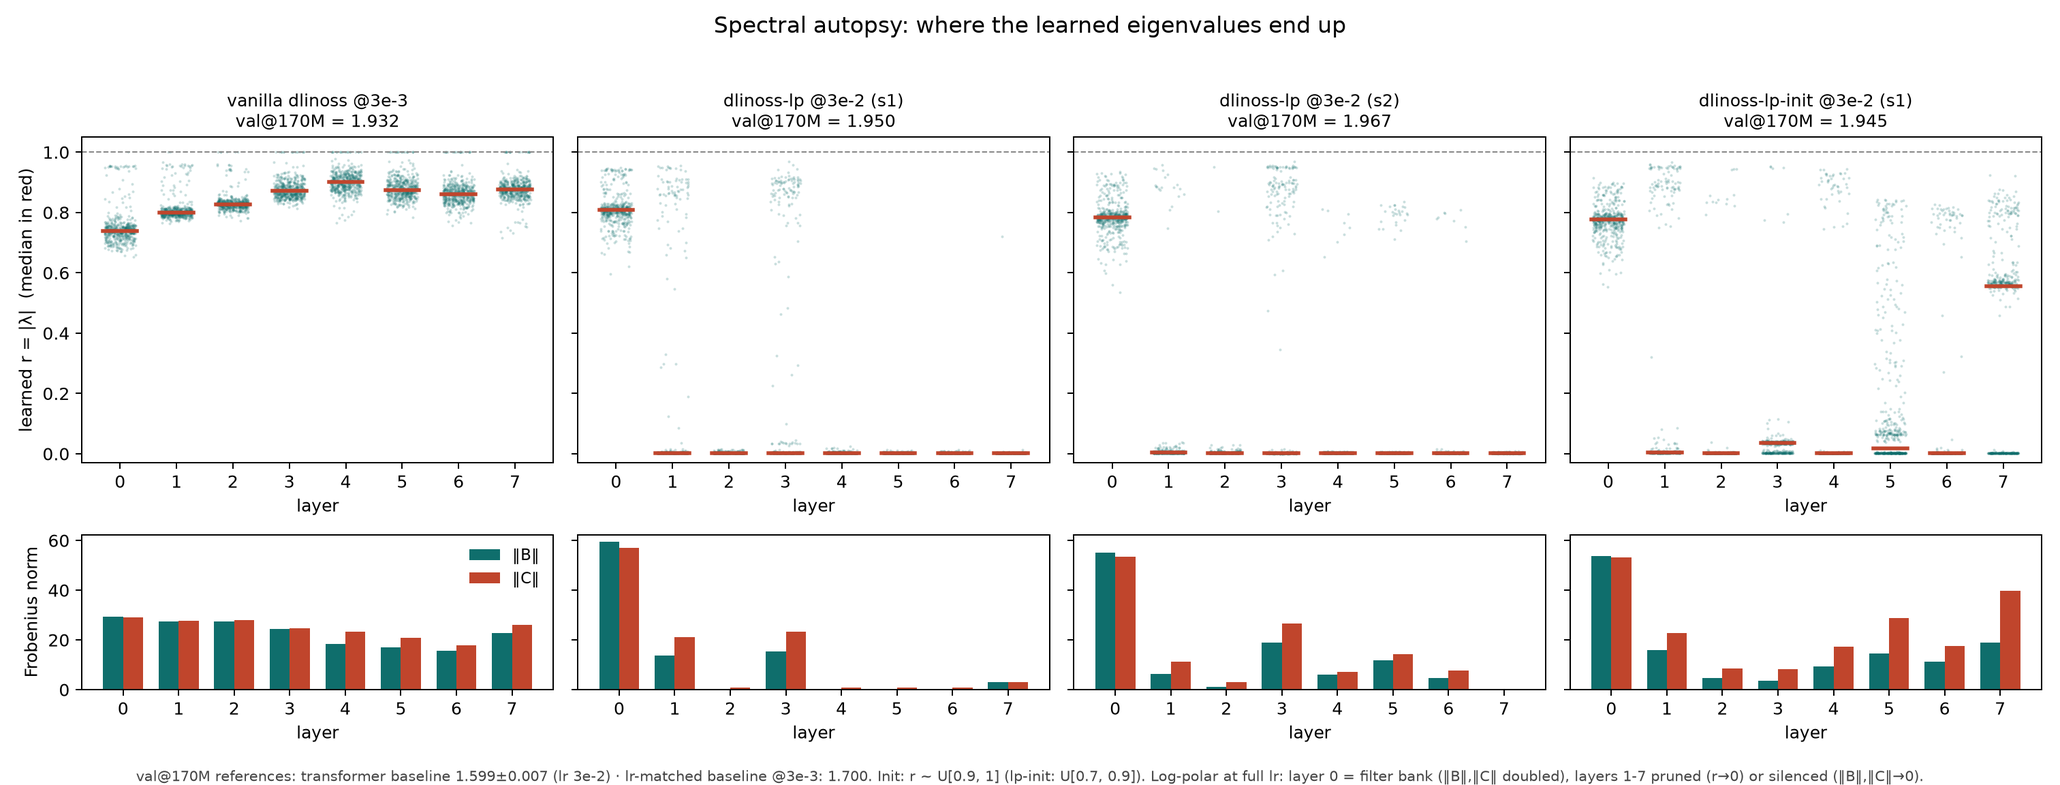
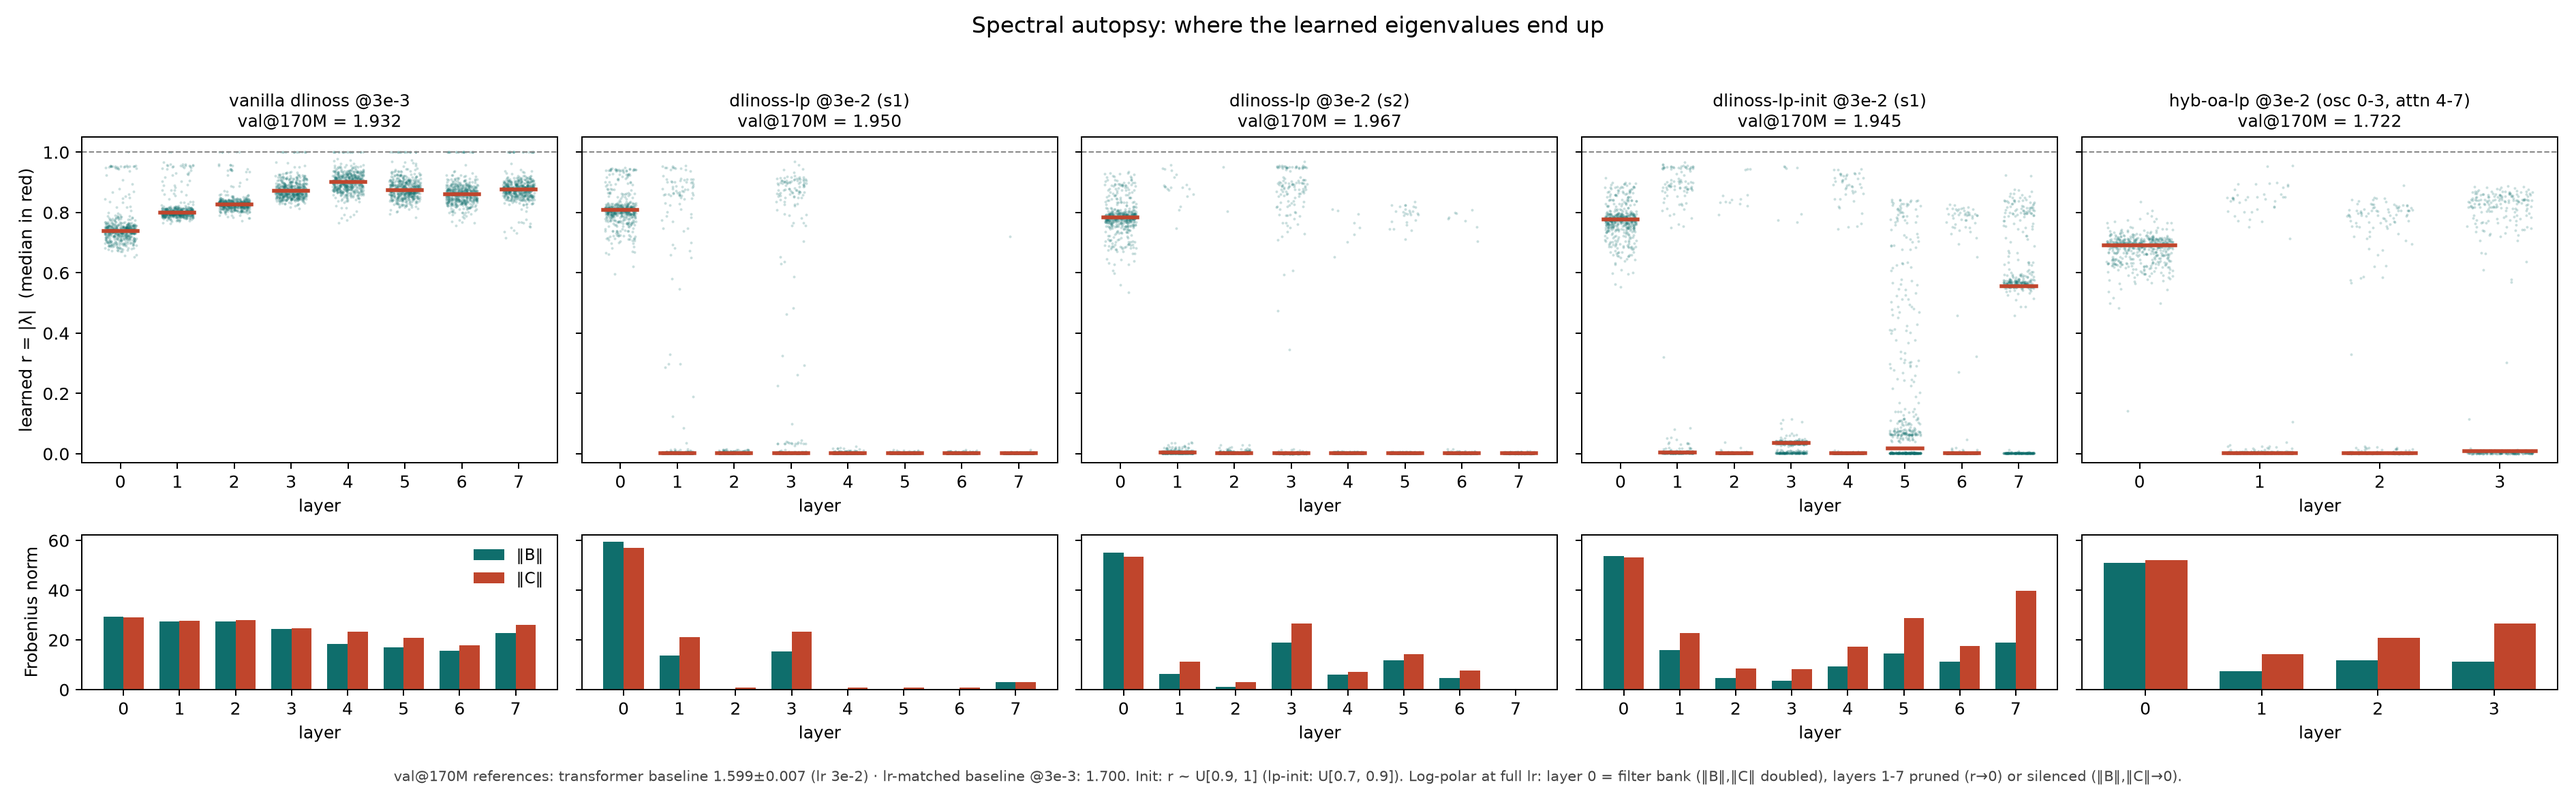
feat: secondo finding autopsia — la memoria LTI sopravvive solo con un consumatore che la indirizza (hyb-oa-lp 1,7225, gradiente 8/17/34% verso l'attention); figura a 5 pannelli, righe registro grid-1b

diff --git a/scripts/fig_autopsia.py b/scripts/fig_autopsia.py
@@ -19,6 +19,7 @@ MODELS = [
     ("dlinoss-lp-d256-L8-t170M-s1-lr3e-2", {"it": "dlinoss-lp @3e-2 (s1)", "en": "dlinoss-lp @3e-2 (s1)"}, "lp", 1.9498),
     ("dlinoss-lp-d256-L8-t170M-s2-lr3e-2", {"it": "dlinoss-lp @3e-2 (s2)", "en": "dlinoss-lp @3e-2 (s2)"}, "lp", 1.9672),
     ("dlinoss-lp-init-d256-L8-t170M-s1-lr3e-2", {"it": "dlinoss-lp-init @3e-2 (s1)", "en": "dlinoss-lp-init @3e-2 (s1)"}, "lp", 1.9450),
+    ("hyb-oa-lp-d256-L8-t170M-s1-lr3e-2", {"it": "hyb-oa-lp @3e-2 (osc 0-3, attn 4-7)", "en": "hyb-oa-lp @3e-2 (osc 0-3, attn 4-7)"}, "lp", 1.7225),
 ]
 
 TEXT = {

diff --git a/RESEARCH_LOG.md b/RESEARCH_LOG.md
@@ -713,6 +713,20 @@ il modello, libero di scegliere, converge verso un'architettura nota
 pila per usare la memoria oltre il primo layer è l'indirizzamento per contenuto →
 motiva la direzione **selettività** (1c) sopra l'omeostasi.
 
+**Secondo finding dell'autopsia (2026-08-19, sera) — la memoria LTI sopravvive solo
+dove ha un consumatore capace di indirizzarla.** hyb-oa-lp s1 @3e-2 chiude a **1,7225**
+(l'ordine "biologico" riabilitato: in 1a moriva NaN; ora a +0,04 dal vincitore hyb-ao
+e con la curva ancora in discesa a fine budget → candidato asintoto). Autopsia dei 4
+layer oscillatori (identica a step 15k e a fine run, quindi struttura stabile): layer
+0 banco di filtri come nel puro ma a memoria *più corta* (r 0,69 ≈ 3 token: l'attention
+sopra copre il lungo raggio — divisione del lavoro); e la potatura si ammorbidisce
+avvicinandosi all'attention: sopravvissuti r>0,5 = 8% → 17% → **34%** al layer 3
+(quello che alimenta l'attention), con ‖C‖ crescente in parallelo (14→21→27). Nel
+dlinoss-lp puro, senza consumatore con indirizzamento, gli stessi layer erano deserti.
+È la tesi della selettività letta nei pesi. Caveat: un solo seed, alla lr di bordo
+(la gemella s2 è NaN — hazard confermato per la categoria ibridi a 3e-2 → coppie
+@1e-2 in corsa). Figura aggiornata (5° pannello): `docs/figures/2026-08-autopsia-spettrale-1b.png`.
+
 *Riproducibilità (bracci lp/lp-init 170M):* codice a commit `cd60dbc`; run W&B gruppo
 `grid-1b` (id = run name, es. `dlinoss-lp-d256-L8-t170M-s1-lr3e-2`), checkpoint su HF
 `neuro-llm-ckpt/<run_name>/last.ckpt`; ricetta: BPE 8k congelato (D3-tokenizer),
@@ -746,6 +760,9 @@ D11 1,599±0,007 (b32×2 su 4080), dlinoss classico 1,932 @3e-3.
 | hyboa-x | 2026-08-19 | hyb-oa | 8,55M | 170M | 1-2 | NaN / NaN | Divergente alla lr pre-registrata 1e-2 (stabile a 20M): il bordo non regge a 170M (emendamento D11). Terzo seed non eseguito (informazione nulla) |
 | dlin-x | 2026-08-19 | dlinoss | 8,43M | 170M | 1 | NaN | Stesso pattern a lr 1e-2 → griglia rilanciata a 3e-3 (emendamento D11) |
 | dlin2-1 | 2026-08-19 | dlinoss | 8,43M | 170M | 1 | 1,9320 | Griglia 1a, lr 3e-3 (regola un-gradino-sotto, emendamento D11); +0,33 (+47ε) dalla baseline D11. Seed 2-3 interrotti (chiusura anticipata: nessun verdetto cambiava) |
+| lp-1..2 | 2026-08-19 | dlinoss-lp | 8,42M | 170M ×2 seed | 1-2 | 1,9498 / 1,9672 | Griglia 1b @3e-2 (lr della baseline: primo oscillatore puro a reggerla). Autopsia: degenerazione in filtro+feedforward |
+| lpi-1 | 2026-08-19 | dlinoss-lp-init | 8,42M | 170M | 1 | 1,9450 | Griglia 1b @3e-2, init r~U[0,7;0,9]. Stessa struttura e loss di lp → degenerazione robusta all'init; braccio chiuso a 1 seed |
+| hoalp-1 | 2026-08-19 | hyb-oa-lp | 8,55M | 170M | 1 | 1,7225 | Griglia 1b @3e-2 (bordo: s2 gemella NaN a step 4k — hazard). Morta di rete a step 16k e ripresa da HF. Curva ancora in discesa a fine budget. Autopsia: gradiente di sopravvivenza 8→17→34% verso l'attention |
 | ctrl3-1..2 | 2026-08-19 | transformer | 8,5M | 170M ×2 seed | 1-2 | 1,6918 / 1,7090 | **Controllo lr-matched** @3e-3 (la lr degli oscillatori): media 1,700. Non braccio di griglia; separa espressività da ottimizzazione nel gap oscillatori-vs-baseline |
 | pilot-1 | 2026-08-18 | transformer | 8,5M | 536M (1 epoch) | 1 | 1,509 (val completo @512) | Pilot per Q4, non braccio di griglia. BPB 0,531 @512 · 0,551 @256 (àncora: 0,4407). Curva: 100M→1,99 · 170M→1,80 · 260M→1,66 · 390M→1,56. Nota di metodo: la run dedicata da 20M dello sweep (3,67) chiude PEGGIO del punto 20M di questa curva (~3,4) — a piccoli budget l'annealing precoce costa più del rumore che toglie; i punti intermedi si leggono come stima centrale, non come limite |
 
